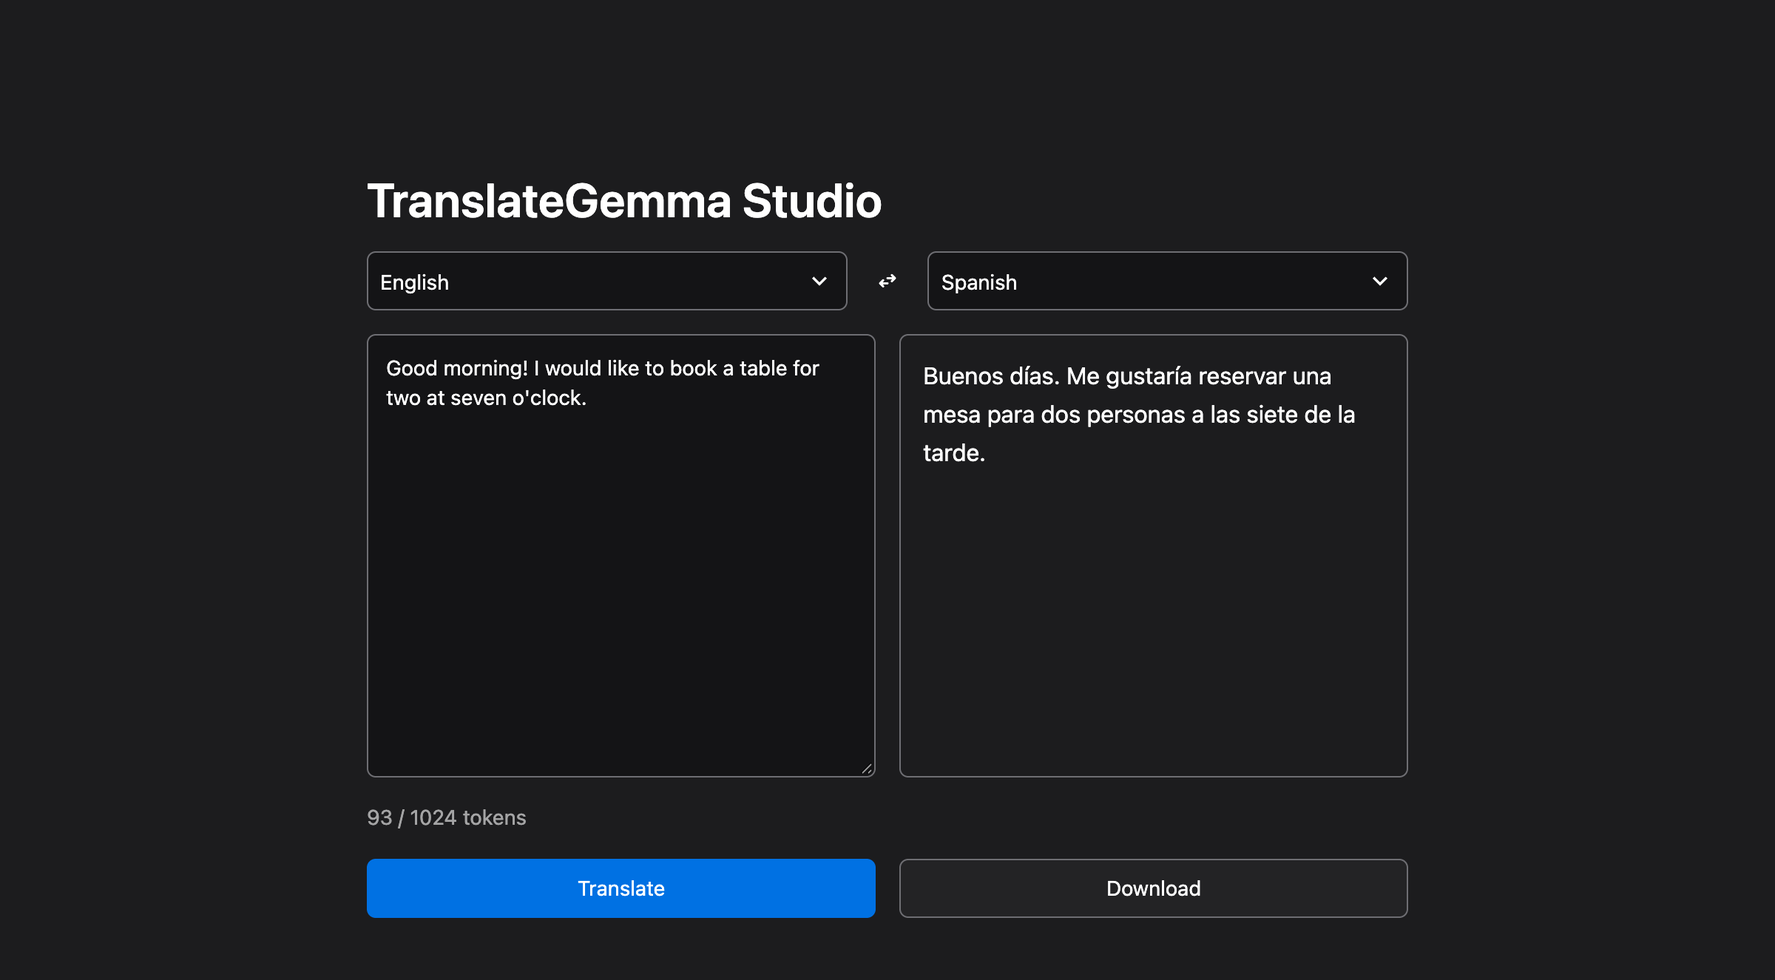
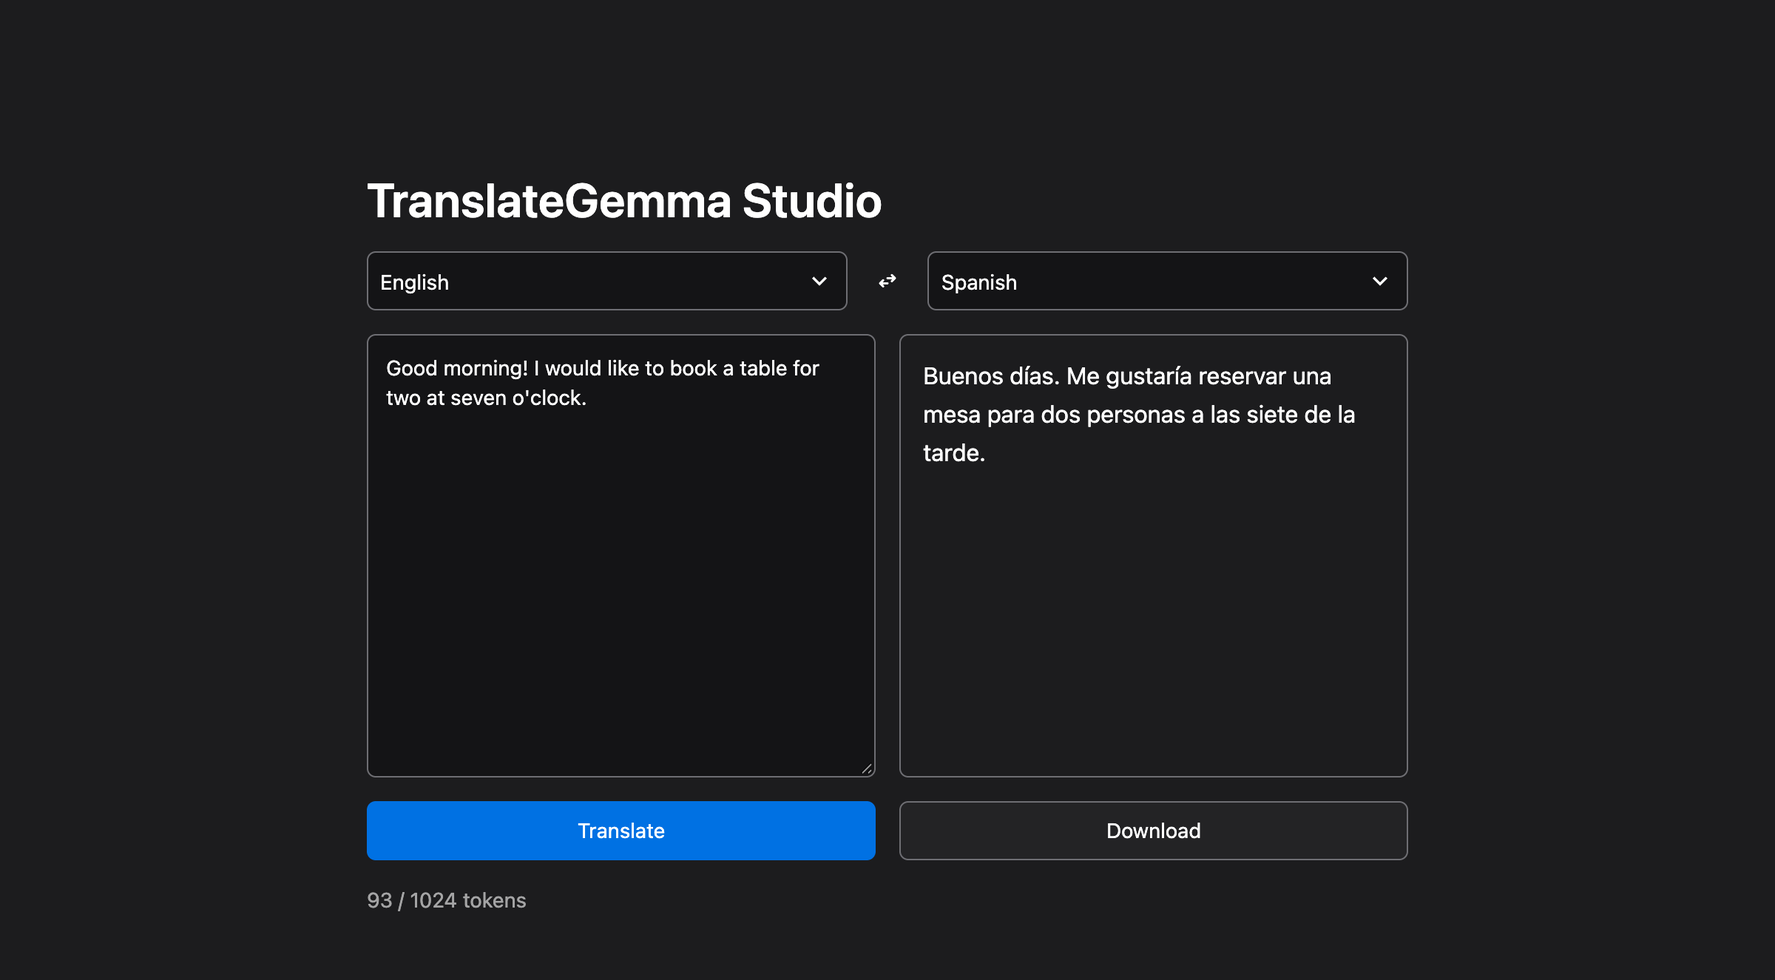
ui: render the token counter below Translate so the buttons never move
The token counter sat between the text area and Translate, gated on
text.strip(), mirrored by an invisible "&nbsp;" caption in the right
column so Download stayed level. Measured at 1200 wide: both buttons
dropped 38 px the moment text was committed — on blur, the instant the
user reaches for Translate — and the over-budget badge had no mirror, so
over budget Translate's top sat 42 px below Download's, under its bottom
edge.

Move the counter and badge below Translate and delete the spacer, so
Translate is the element directly after the 300px text area and
Download the element directly after the 300px output box. Both buttons
now measure 542.4 px top in all four states (empty / under budget / over
budget / with a result) — the position they had only in the empty state
before — against the live app, not just a mock. The invariant depends on
no line-height, badge metric, font or wrap: nothing conditional precedes
either button.

Five placements were built as mocks and measured in Chrome before
settling here. An unconditional counter row works only when hosted in
st.markdown (a :red-badge[] inside st.caption measures +1.11 px and
paints the badge at 60% alpha, ~3.5:1) and shows "0 / 1024 tokens" under
an empty box; a horizontal button row keeps the counter beside Translate
but the button's width then varies 344 → 221 → 114 px with state; a
fixed-height slot leaves a 101 px blank band in the empty state. The one
[…]

Changed region(s): [[0.1875, 0.8039, 0.5, 0.9585], [0.625, 0.8967, 0.6875, 0.9276], [0.625, 0.8348, 0.6875, 0.8658]]

diff --git a/tests/test_streamlit_app.py b/tests/test_streamlit_app.py
@@ -11,6 +11,15 @@ def _caption_texts(app_module):
     return [c.args[0] for c in app_module.st.caption.call_args_list if c.args]
 
 
+def _top_level_calls(app_module):
+    # Direct st.<name>(...) calls, in order. Calls on returned mocks
+    # (text_area().strip(), container().__enter__()) carry a dot in their
+    # name and are dropped, so adjacency here means "no direct st.* call
+    # between"; writes through a column handle are not recorded here, and the
+    # AppTest walk covers those.
+    return [c for c in app_module.st.mock_calls if "." not in c[0]]
+
+
 def _fake_stream(*segments):
     # Stand in for mlx-lm's stream of GenerationResponse objects; only the
     # .text attribute is read by translate_stream().
@@ -33,6 +42,39 @@ def _output_box(app_test):
 
 def _box_contents(box):
     return [(child.type, child.value) for child in box.children.values()]
+
+
+def _content_columns(app_test):
+    # The two content columns, identified by what they hold — the source
+    # text_area and the 300px output box — rather than by position.
+    def holds(column, predicate):
+        return any(predicate(child) for child in column.children.values())
+
+    left = next(
+        column
+        for column in app_test.columns
+        if holds(column, lambda child: child.type == "text_area")
+    )
+    right = next(
+        column
+        for column in app_test.columns
+        if holds(
+            column,
+            lambda child: (
+                child.type == "flex_container"
+                and child.proto.height_config.pixel_height == 300
+            ),
+        )
+    )
+    return left, right
+
+
+def _column_shapes(app_test):
+    left, right = _content_columns(app_test)
+    return (
+        [child.type for child in left.children.values()],
+        [child.type for child in right.children.values()],
+    )
 
 
 class TestConstants:
@@ -385,6 +427,29 @@ class TestButtonLayout:
         calls = app_module.st.columns.call_args_list
         assert calls[1] == call(2)
 
+    # Each button is the element right after its 300px panel. Anything
+    # conditional between a panel and its button moves the button — and,
+    # unless mirrored in the other column, misaligns the pair. The token
+    # counter used to sit there; it renders below Translate now.
+
+    def test_translate_directly_follows_the_text_area(self, app_module):
+        calls = _top_level_calls(app_module)
+        text_area = next(i for i, c in enumerate(calls) if c[0] == "text_area")
+        name, args, _ = calls[text_area + 1]
+        assert (name, args) == ("button", ("Translate",))
+
+    def test_download_directly_follows_the_output_box(self, app_module):
+        calls = app_module.st.mock_calls
+        leave = calls.index(call.container().__exit__(None, None, None))
+        after = next(c for c in calls[leave + 1 :] if "." not in c[0])
+        assert after[0] == "download_button"
+
+    def test_no_spacer_caption(self, app_module):
+        # The right column once mirrored the counter with an invisible
+        # "&nbsp;" caption to keep the buttons level; with nothing between a
+        # panel and its button on either side there is nothing to mirror.
+        assert "&nbsp;" not in _caption_texts(app_module)
+
 
 class TestTokenCounter:
     def test_token_count_caption_rendered(self, app_module):
@@ -392,9 +457,20 @@ class TestTokenCounter:
         token_budget = f"/ {app_module.MAX_PROMPT_TOKENS} tokens"
         assert any(token_budget in text for text in captions)
 
-    def test_right_column_has_alignment_spacer(self, app_module):
-        captions = _caption_texts(app_module)
-        assert "&nbsp;" in captions
+    def test_token_counter_renders_below_the_translate_button(self, app_module):
+        calls = _top_level_calls(app_module)
+        token_budget = f"/ {app_module.MAX_PROMPT_TOKENS} tokens"
+        translate = next(
+            i
+            for i, c in enumerate(calls)
+            if c[0] == "button" and c[1] == ("Translate",)
+        )
+        counter = next(
+            i
+            for i, c in enumerate(calls)
+            if c[0] == "caption" and token_budget in c[1][0]
+        )
+        assert translate < counter
 
 
 class TestOutputBox:
@@ -458,9 +534,9 @@ class TestStreamingClickPath:
 
     Covers UI branches that import-time MagicMock fixtures can't reach:
     the streaming click path and the settled re-render after it, the
-    output box's contents in each state, the model-load error handler,
-    runtime target-list filtering, the swap button, and the empty-text
-    warning.
+    output box's contents in each state, the button row's shape in each
+    state, the model-load error handler, runtime target-list filtering,
+    the swap button, and the empty-text warning.
     """
 
     def test_translate_click_streams_into_session_state(self, app_test, fake_mlx_lm):
@@ -546,6 +622,29 @@ class TestStreamingClickPath:
             and "Too long to translate" in m.value
             for m in app_test.markdown
         )
+
+    def test_buttons_directly_follow_their_panels_in_every_state(
+        self, app_test, fake_mlx_lm, mock_tokenizer
+    ):
+        # The counter and badge only ever render below Translate, and the
+        # right column has nothing between the box and Download, so the two
+        # buttons sit level in every state. See TestButtonLayout.
+        right = ["flex_container", "download_button"]
+        assert _column_shapes(app_test) == (["text_area", "button"], right)
+
+        app_test.text_area(key="source_text").input("Hello").run()
+        under_budget = ["text_area", "button", "caption"]
+        assert _column_shapes(app_test) == (under_budget, right)
+
+        fake_mlx_lm.stream_generate.return_value = _fake_stream("Hola")
+        app_test.button(key="translate_text").click().run()
+        assert app_test.download_button(key="download_text").disabled is False
+        assert _column_shapes(app_test) == (under_budget, right)  # with a result
+
+        mock_tokenizer.encode.return_value = list(range(2000))
+        app_test.text_area(key="source_text").set_value("text").run()
+        over_budget = [*under_budget, "markdown"]  # the badge
+        assert _column_shapes(app_test) == (over_budget, right)
 
     def test_translation_exception_logs_and_shows_error(
         self, app_test, fake_mlx_lm, caplog

diff --git a/streamlit_app.py b/streamlit_app.py
@@ -200,7 +200,10 @@ with left_col:
         label_visibility="collapsed",
     )
 
-    # Live token usage against the model's context window.
+    # Live token usage against the prompt cap. Computed here so the button
+    # can be disabled on it; rendered after the button so nothing conditional
+    # sits between the text area and Translate.
+    prompt_tokens = 0
     over_budget = False
     if text.strip():
         # `tokenizer` is already bound from the module-level load above.
@@ -213,14 +216,9 @@ with left_col:
         )
         prompt_tokens = count_prompt_tokens(preview, tokenizer)
         over_budget = prompt_tokens > MAX_PROMPT_TOKENS
-        st.caption(f"{prompt_tokens} / {MAX_PROMPT_TOKENS} tokens")
-        if over_budget:
-            st.badge(
-                "Too long to translate",
-                icon=":material/error:",
-                color="red",
-            )
 
+    # Translate directly follows the 300px text area in every state, so it
+    # stays level with Download, which directly follows the 300px output box.
     translate_clicked = st.button(
         "Translate",
         type="primary",
@@ -228,6 +226,15 @@ with left_col:
         width="stretch",
         disabled=over_budget,
     )
+
+    if text.strip():
+        st.caption(f"{prompt_tokens} / {MAX_PROMPT_TOKENS} tokens")
+        if over_budget:
+            st.badge(
+                "Too long to translate",
+                icon=":material/error:",
+                color="red",
+            )
 
 prev_response = st.session_state.get("translation_result", "")
 
@@ -240,9 +247,7 @@ with right_col:
         output_box = st.empty()
         _show_settled(output_box, prev_response)
 
-    if text.strip():
-        st.caption("&nbsp;")  # spacer matching the left column's token counter
-
+    # Nothing between the box and Download — see the left column.
     st.download_button(
         label="Download",
         type="secondary",

diff --git a/tests/test_live_model.py b/tests/test_live_model.py
@@ -5,7 +5,7 @@ Deselected by default (`-m "not live"` in `addopts`) because it loads the full
 
 No other test loads the real `mlx_lm` (the ones that touch it swap in a
 `MagicMock`), so the suite cannot see runtime breakage in the MLX stack: an
-`mlx-lm`/`mlx` pairing that returns an empty translation still passes all 94
+`mlx-lm`/`mlx` pairing that returns an empty translation still passes all 98
 other tests at 100% coverage. This is the only test that would notice, which
 makes it worth running by hand after any `mlx` or `mlx-lm` bump. See Known
 Issues in CLAUDE.md for the failure that prompted it.

diff --git a/CLAUDE.md b/CLAUDE.md
@@ -38,6 +38,7 @@ Each of these is explained in full further down; they are collected here because
 - **`use_container_width`** — deprecated by Streamlit; use `width="stretch"`.
 - **`[theme.light]` and `[theme.dark]` in `.streamlit/config.toml`** — both must stay, each non-empty. Streamlit keeps the in-app switcher with either one, but the mode that is missing silently becomes the stock palette under this theme's font, radius and borders — a half-designed mode. And `base` is valid only directly under `[theme]`, never inside a mode section. `TestThemeConfig` fails on either. See Architecture → Theme.
 - **The target-language filter's position** — it must stay above the target selectbox. See Architecture → UI.
+- **Nothing between a panel and its button** — Translate directly follows the text area and Download directly follows the output box; the token counter renders *below* Translate, not above it, and there is no spacer in the right column. See Architecture → UI → Button row.
 
 ## Code Style
 
@@ -97,7 +98,7 @@ The module configures `logging.basicConfig(INFO)` (silencing `httpx` to `WARNING
 - `max_tokens = CONTEXT_WINDOW - prompt_tokens` — translation gets all remaining room (EOS still stops it early)
 - `MAX_INPUT_CHARS = 5000` — coarse text-area backstop; the token counter is the real, language-aware limit
 
-`count_prompt_tokens(prompt, tokenizer)` returns the token length of the wrapped prompt — the Gemma chat scaffold (`<start_of_turn>user...`) is included, since that's what `build_prompt()` returns, as is the `<bos>` the tokenizer prepends. The UI shows a live token count under the input and disables Translate when over budget.
+`count_prompt_tokens(prompt, tokenizer)` returns the token length of the wrapped prompt — the Gemma chat scaffold (`<start_of_turn>user...`) is included, since that's what `build_prompt()` returns, as is the `<bos>` the tokenizer prepends. The UI shows a live token count below the Translate button and disables Translate when over budget.
 
 ### UI
 
@@ -107,7 +108,7 @@ The module configures `logging.basicConfig(INFO)` (silencing `httpx` to `WARNING
 - **Language selectors** — `[10, 1, 10]` columns with the swap button between them. The runtime filter that rewrites `st.session_state["target_lang"]` to a valid target **must stay above the target selectbox** — assigning to a widget key after its widget exists raises `StreamlitAPIException`, and only the AppTest layer catches it. Note the filter silently discards the user's target selection when the source moves off English.
 - **Swap button** — `_swap_languages()` swaps source/target and moves the previous translation into the source area; disabled when target is `FROM_ENGLISH_ONLY` (the only invalid swap, since non-English sources always pair with English). The callback re-checks that condition itself and returns early — that is the backstop for a stale click, not dead code.
 - **Output box** — one `st.container(height=300)` holding one `st.empty()`, in every state. The settled result and the stream both render through `st.text` (raw text, not markdown — matching the `text/plain` download), so the settled panel is full-strength text rather than a `disabled` text area, which Streamlit paints at 40% alpha (a disabled text area *is* selectable and copyable in Chrome — that was checked — so legibility is the whole reason). Empty state shows a muted `st.caption("Translation")` as the placeholder. On Translate the box shows a muted "Translating…" (covering the prefill wait, seconds for a long input) until the first chunk replaces it. If generation fails before any chunk arrives, `_show_settled()` restores the previous content so the box matches what Download still offers; a mid-stream failure leaves the partial output in place. The `st.error` renders below the two-column row in both cases. Two asymmetries with the input are accepted, not bugs to fix with CSS: `st.text` is 1rem where a text area is 0.875rem (neither has a theme option), and the container is bordered but unfilled, so the output sits on `backgroundColor` while the input sits on the `secondaryBackgroundColor` well. Streaming does not auto-scroll; output past the box's height streams below the fold. On completion the result is saved to `st.session_state["translation_result"]` and `st.rerun()` re-renders the box settled and enables Download.
-- **Captions** — the left column's token counter and the right column's `&nbsp;` spacer are both gated on `text.strip()`, so they appear and disappear together. Rendering the spacer unconditionally misaligns the Translate and Download buttons whenever the input is empty — the exact bug it exists to prevent.
+- **Button row** — Translate is the element directly after the 300px text area and Download the element directly after the 300px output box, in every state, so the two buttons sit level and never move (measured: 542.4 px top at 1200 wide in all four states — empty, under budget, over budget, with a result). The token counter and the over-budget badge render *below* Translate, gated on `text.strip()`; nothing gated sits between a panel and its button. This replaced (2026-09-12) a layout with the counter above Translate mirrored by an invisible `&nbsp;` caption in the right column: the pair dropped 38 px together when text was committed — the moment the user reaches for the button — and the badge had no mirror, so over budget Translate sat 42 px below Download. Alternatives were measured before settling here: an unconditional counter row (works only hosted in `st.markdown`; a `:red-badge[...]` inside `st.caption` measured +1.11 px and paints the badge at 60% alpha, ~3.5:1), a horizontal button row (the counter beside Translate, but the button's width then varies 344 → 221 → 114 px with state), and a fixed-height slot (a 101 px blank band in the empty state). Only this ordering is invariant to line-height, badge metrics, wrapping and Streamlit bumps, because nothing conditional precedes either button. `st.columns(2)` must keep its default `vertical_alignment="top"`: the left column is now taller than the right whenever text is present, and `"center"` or `"bottom"` would slide Download. Guarded by `TestButtonLayout` (adjacency in the import-time call order) and `test_buttons_directly_follow_their_panels_in_every_state` (column shapes in AppTest across all four states).
 - **Session state keys the script reads or writes** — `source_lang`, `target_lang`, `translation_result`, `source_text`; the button widget keys `translate_text` and `download_text` also exist in session state but are never read
 - **Widget conventions** — buttons size with `width="stretch"`; `use_container_width` is deprecated and still accepted, with no removal release named (the docstring says only "a future release"), so do not reintroduce it. The page icon and the `st.error`/`st.warning` callouts use Material Symbols (`:material/...:`).
 
@@ -161,10 +162,10 @@ The mocked layers cannot catch this: they replace `mlx_lm` with a `MagicMock`, s
 
 ## Testing
 
-Two mocked layers, a plain unit layer, and a config guard, ~1s combined for 94 tests at 100% coverage, plus one opt-in live test that runs against the real model:
+Two mocked layers, a plain unit layer, and a config guard, ~1s combined for 98 tests at 100% coverage, plus one opt-in live test that runs against the real model:
 
-- **Import-time tests** — swap `sys.modules["streamlit"]` and `sys.modules["mlx_lm"]` for `MagicMock`s, import `streamlit_app.py`, then assert on captured `st.*` calls. No Streamlit runtime runs. Covers pure functions, layout, token counting, EOS stripping.
-- **End-to-end tests** (`TestStreamingClickPath`) — drive the real script via `streamlit.testing.v1.AppTest` with only `mlx_lm` mocked. Reaches branches the import-time tests can't: streaming click path and the settled `st.text` re-render after it, model-load failure, runtime target filtering, swap-button wiring, empty-text warning.
+- **Import-time tests** — swap `sys.modules["streamlit"]` and `sys.modules["mlx_lm"]` for `MagicMock`s, import `streamlit_app.py`, then assert on captured `st.*` calls. No Streamlit runtime runs. Covers pure functions, layout, panel/button adjacency in the `st.*` call order, token counting, EOS stripping.
+- **End-to-end tests** (`TestStreamingClickPath`) — drive the real script via `streamlit.testing.v1.AppTest` with only `mlx_lm` mocked. Reaches branches the import-time tests can't: streaming click path and the settled `st.text` re-render after it, the content columns' shape in every state, model-load failure, runtime target filtering, swap-button wiring, empty-text warning.
 - **Language-table tests** (`tests/test_languages.py`) — 19 tests across 6 classes, mocking nothing; a bare `from languages import ...` inside each test. Assert the 225 / 70 / 295 / 294 counts, per-code samples (including `Chinese` → `zh-CN`), key non-overlap, code uniqueness, and sort order.
 - **Theme-config guard** (`TestThemeConfig`) — tests on the *shape* of `.streamlit/config.toml`, not its palette: it parses with a `[theme]` table; `[theme.light]` and `[theme.dark]` are both present and non-empty (this repo's policy — see Architecture → Theme for why one alone is a trap); every key under `[theme]` is in `streamlit.config.get_config_options()`, so a `base` inside a mode section or a typo fails here instead of being logged once at startup and ignored (other sections of the file are not walked); and every `*Color` value is `#RRGGBB`, because the frontend drops a malformed colour with a console warning and paints the stock palette. Four tests. It reads the real `streamlit.config` — the import-time mocks are restored before any test runs.
 - **Live-model test** (`tests/test_live_model.py`, `@pytest.mark.live`) — the only test with `mlx_lm` unmocked; drives AppTest against the real 3.9 GB quant and asserts a non-empty, EOS-free translation. **Deselected by default** via `-m "not live"` in `addopts`, so neither `uv run pytest` nor CI touches it.
@@ -273,7 +274,7 @@ with sync_playwright() as p:
 - **`device_scale_factor=2` is not optional.** The dev machine is a non-retina 1920×1080 display reporting `devicePixelRatio: 1`, so macOS `screencapture` and the Chrome extension's screenshot both yield 1× — half the asset's resolution. Playwright synthesizes 2× regardless of the physical display.
 - **`channel="chrome"` avoids a browser download.** The cached Playwright build drifts from whatever version `uvx`/`--with` resolves (1228 vs 1234 at time of writing), and the mismatch triggers a ~150 MB `playwright install`. Driving the installed Chrome sidesteps it.
 - **Blur *and* move the mouse.** After the click the button keeps focus (focus ring) and the virtual mouse stays parked on it (`:hover` darkens the button). Both survive into the still. A correct capture samples `#0071E3` on the Translate button and `#1C1C1E` on the background — the theme's own `[theme.dark]` values, which proves both that the config was picked up and that `color_scheme="dark"` selected the dark palette. A `#FF4B4B` button means the config was not found.
-- **Re-measure the height after any layout change.** The viewport height is tuned to end ~42 CSS px below the buttons; it is not a stable constant. Dropping the Material theme grew the page by ~45 CSS px at the buttons (its `baseFontSize = 14` and 36px title against Streamlit's 16 and 2.75rem), and the Native theme then shrank it by ~14 (a 2rem title against the 2.75rem default), which is why the height went 676 → 663. Measure the buttons' `getBoundingClientRect().bottom` at 1200 wide before trusting the number.
+- **Re-measure the height after any layout change.** The viewport height is tuned to end ~42 CSS px below the last painted element — the token counter under Translate, whose text ends at ~620.8 CSS px in the screenshot state; it is not a stable constant. Dropping the Material theme grew the page by ~45 CSS px at the buttons (its `baseFontSize = 14` and 36px title against Streamlit's 16 and 2.75rem), and the Native theme then shrank it by ~14 (a 2rem title against the 2.75rem default), which is why the height went 676 → 663. Moving the counter below the buttons (2026-09-12) left it at 663: the same elements stack to the same total, so the counter's text now ends where the buttons used to. Measure the counter's `getBoundingClientRect().bottom` (its `stCaptionContainer` includes a 16 px bottom margin — subtract it) at 1200 wide before trusting the number.
 - **Streamlit commits a `text_area` on blur**, so `fill()` then `Tab`, and wait for the rerun before clicking Translate — clicking too early lands on a stale widget tree.
 
 ## Hooks
